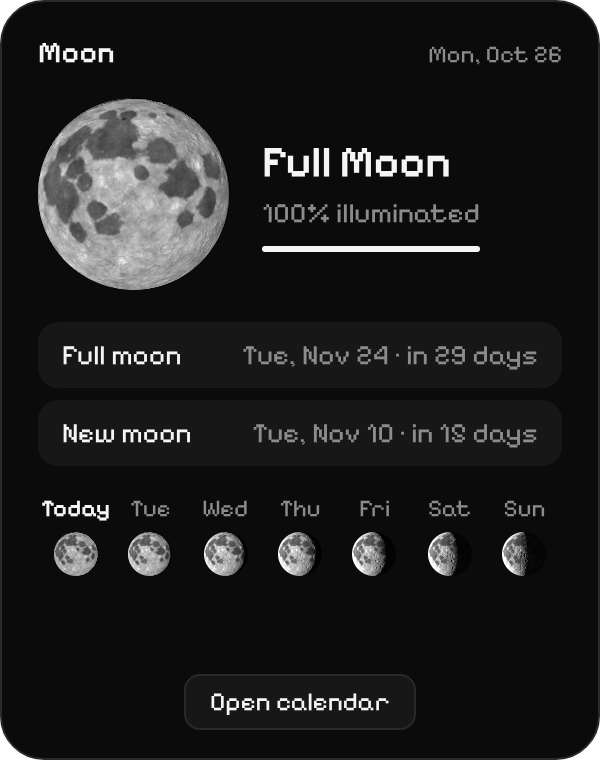
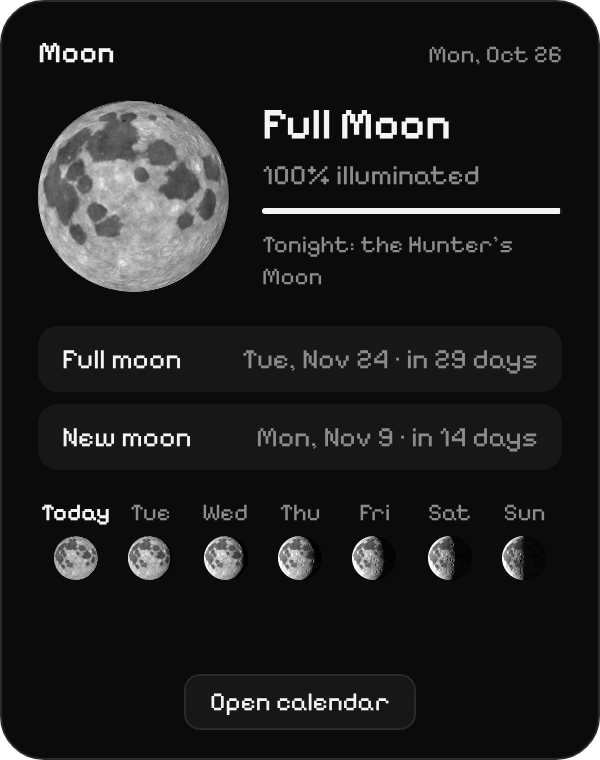
v1.2.0: traditional moon names (Harvest, Hunter's, Blue Moon, Supermoon) and precise phase times
Claude-Session: https://claude.ai/code/session_01NMGxaikXEgU81ymDHPEkG5

diff --git a/moon.js b/moon.js
@@ -1,35 +1,174 @@
 // Shared moon math + drawing, used by both the website (index.html) and the widget (widget.html).
+//
+// Phase times use the algorithms from Jean Meeus, "Astronomical Algorithms" (ch. 47 and 49),
+// so new, quarter and full moon times are accurate to within a few minutes for any year,
+// past or future. Nothing is hard-coded, so the app keeps working year after year.
 
-const SYNODIC = 29.530588853;                       // average days between new moons
-const REF_NEW_MOON = Date.UTC(2000, 0, 6, 18, 14);  // a known new moon
+const SYNODIC = 29.530588861;   // average days between new moons
 const DAY_MS = 86400000;
+const rad = d => d * Math.PI / 180;
+const jdOf = date => date.getTime() / DAY_MS + 2440587.5;   // Date -> Julian Day
+const dateOf = jd => new Date((jd - 2440587.5) * DAY_MS);    // Julian Day -> Date
+
+// Exact time of a principal phase. k = lunation number (0 = Jan 2000), q = 0 new, 0.25 first quarter, 0.5 full, 0.75 last quarter
+function truePhaseJD(k, q) {
+  const kk = k + q, T = kk / 1236.85, s = Math.sin, c = Math.cos;
+  let jde = 2451550.09766 + 29.530588861 * kk + 0.00015437 * T * T - 0.00000015 * T ** 3 + 0.00000000073 * T ** 4;
+  const E = 1 - 0.002516 * T - 0.0000074 * T * T;
+  const M = rad(2.5534 + 29.1053567 * kk - 0.0000014 * T * T);       // Sun's mean anomaly
+  const Mp = rad(201.5643 + 385.81693528 * kk + 0.0107582 * T * T);  // Moon's mean anomaly
+  const F = rad(160.7108 + 390.67050284 * kk - 0.0016118 * T * T);   // Moon's argument of latitude
+  const O = rad(124.7746 - 1.56375588 * kk + 0.0020672 * T * T);     // longitude of the ascending node
+  let corr;
+  if (q === 0 || q === 0.5) {
+    const a = q === 0 ? [-0.40720, 0.17241, 0.01608, 0.01039, 0.00739, -0.00514, 0.00208]
+                      : [-0.40614, 0.17302, 0.01614, 0.01043, 0.00734, -0.00515, 0.00209];
+    corr = a[0] * s(Mp) + a[1] * E * s(M) + a[2] * s(2 * Mp) + a[3] * s(2 * F) + a[4] * E * s(Mp - M)
+      + a[5] * E * s(Mp + M) + a[6] * E * E * s(2 * M) - 0.00111 * s(Mp - 2 * F) - 0.00057 * s(Mp + 2 * F)
+      + 0.00056 * E * s(2 * Mp + M) - 0.00042 * s(3 * Mp) + 0.00042 * E * s(M + 2 * F) + 0.00038 * E * s(M - 2 * F)
+      - 0.00024 * E * s(2 * Mp - M) - 0.00017 * s(O) - 0.00007 * s(Mp + 2 * M) + 0.00004 * s(2 * Mp - 2 * F)
+      + 0.00004 * s(3 * M) + 0.00003 * s(Mp + M - 2 * F) + 0.00003 * s(2 * Mp + 2 * F) - 0.00003 * s(Mp + M + 2 * F)
+      + 0.00003 * s(Mp - M + 2 * F) - 0.00002 * s(Mp - M - 2 * F) - 0.00002 * s(3 * Mp + M) + 0.00002 * s(4 * Mp);
+  } else {
+    corr = -0.62801 * s(Mp) + 0.17172 * E * s(M) - 0.01183 * E * s(Mp + M) + 0.00862 * s(2 * Mp) + 0.00804 * s(2 * F)
+      + 0.00454 * E * s(Mp - M) + 0.00204 * E * E * s(2 * M) - 0.0018 * s(Mp - 2 * F) - 0.0007 * s(Mp + 2 * F)
+      - 0.0004 * s(3 * Mp) - 0.00034 * E * s(2 * Mp - M) + 0.00032 * E * s(M + 2 * F) + 0.00032 * E * s(M - 2 * F)
+      - 0.00028 * E * E * s(Mp + 2 * M) + 0.00027 * E * s(2 * Mp + M) - 0.00017 * s(O) - 0.00005 * s(Mp - M - 2 * F)
+      + 0.00004 * s(2 * Mp + 2 * F) - 0.00004 * s(Mp + M + 2 * F) + 0.00004 * s(Mp - 2 * M) + 0.00003 * s(Mp + M - 2 * F)
+      + 0.00003 * s(3 * M) + 0.00002 * s(2 * Mp - 2 * F) + 0.00002 * s(Mp - M + 2 * F) - 0.00002 * s(3 * Mp + M);
+    const W = 0.00306 - 0.00038 * E * c(M) + 0.00026 * c(Mp) - 0.00002 * c(Mp - M) + 0.00002 * c(Mp + M) + 0.00002 * c(2 * F);
+    corr += q === 0.25 ? W : -W;
+  }
+  return jde + corr - 69.2 / 86400;   // TT -> UT (ΔT ≈ 69 s)
+}
+
+// The principal phases around a moment, in time order: [{ jd, q }]
+const phaseCache = new Map();
+function phasesAround(date) {
+  const k0 = Math.floor((jdOf(date) - 2451550.09766) / SYNODIC);
+  const out = [];
+  for (let k = k0 - 1; k <= k0 + 2; k++) {
+    if (!phaseCache.has(k)) phaseCache.set(k, [0, 0.25, 0.5, 0.75].map(q => ({ jd: truePhaseJD(k, q), q })));
+    out.push(...phaseCache.get(k));
+  }
+  return out.sort((a, b) => a.jd - b.jd);
+}
 
 const PHASES = [
-  { max: 1.84566,  name: 'New Moon' },
-  { max: 5.53699,  name: 'Waxing Crescent' },
-  { max: 9.22831,  name: 'First Quarter' },
-  { max: 12.91963, name: 'Waxing Gibbous' },
-  { max: 16.61096, name: 'Full Moon' },
-  { max: 20.30228, name: 'Waning Gibbous' },
-  { max: 23.99361, name: 'Last Quarter' },
-  { max: 27.68493, name: 'Waning Crescent' },
-  { max: 99,       name: 'New Moon' },
+  { max: 0.0625, name: 'New Moon' },
+  { max: 0.1875, name: 'Waxing Crescent' },
+  { max: 0.3125, name: 'First Quarter' },
+  { max: 0.4375, name: 'Waxing Gibbous' },
+  { max: 0.5625, name: 'Full Moon' },
+  { max: 0.6875, name: 'Waning Gibbous' },
+  { max: 0.8125, name: 'Last Quarter' },
+  { max: 0.9375, name: 'Waning Crescent' },
+  { max: 1.01,   name: 'New Moon' },
 ];
 
-function moonAge(date) {
-  const days = (date.getTime() - REF_NEW_MOON) / DAY_MS;
-  return ((days % SYNODIC) + SYNODIC) % SYNODIC;
+// Where in its cycle the moon is: 0 = new, 0.25 = first quarter, 0.5 = full, 0.75 = last quarter
+function phaseFraction(date) {
+  const jd = jdOf(date), ev = phasesAround(date);
+  for (let i = 0; i < ev.length - 1; i++) {
+    if (jd >= ev[i].jd && jd < ev[i + 1].jd) {
+      return (ev[i].q + 0.25 * (jd - ev[i].jd) / (ev[i + 1].jd - ev[i].jd)) % 1;
+    }
+  }
+  return 0;
 }
-function phaseFraction(date) { return moonAge(date) / SYNODIC; }
+function moonAge(date) {   // days since the last new moon
+  const jd = jdOf(date);
+  const prev = phasesAround(date).filter(e => e.q === 0 && e.jd <= jd).pop();
+  return prev ? jd - prev.jd : 0;
+}
 function illumination(date) { return (1 - Math.cos(2 * Math.PI * phaseFraction(date))) / 2; }
-function phaseInfo(date) { const a = moonAge(date); return PHASES.find(p => a < p.max); }
+function phaseInfo(date) { const f = phaseFraction(date); return PHASES.find(p => f < p.max); }
 
-// Next time the moon reaches a given fraction of its cycle (0.25 = first quarter, 0.5 = full, 1 = new)
+// Next time the moon reaches a phase after `from` (target 0.25 first quarter, 0.5 full, 0.75 last quarter, 1 new)
 function nextPhaseDate(from, target) {
-  const f = phaseFraction(from);
-  let diff = target - f;
-  if (diff <= 0) diff += 1;
-  return new Date(from.getTime() + diff * SYNODIC * DAY_MS);
+  const q = target % 1, jd = jdOf(from);
+  for (let shift = 0; shift < 3; shift++) {
+    const probe = new Date(from.getTime() + shift * 20 * DAY_MS);
+    const hit = phasesAround(probe).find(e => e.q === q && e.jd > jd);
+    if (hit) return dateOf(hit.jd);
+  }
+  return null;
+}
+
+// ---------- Full moon names ----------
+// Traditional names (as used by the Old Farmer's Almanac), worked out for any year:
+//  - each month has its own name
+//  - the Harvest Moon is the full moon closest to the September equinox; the Hunter's Moon is the one after it
+//  - a second full moon in the same calendar month is a Blue Moon
+//  - a full moon closer than about 362,500 km is a Supermoon; farther than 405,000 km is a Micromoon
+const MONTH_MOONS = ['Wolf Moon', 'Snow Moon', 'Worm Moon', 'Pink Moon', 'Flower Moon', 'Strawberry Moon',
+  'Buck Moon', 'Sturgeon Moon', 'Corn Moon', "Hunter's Moon", 'Beaver Moon', 'Cold Moon'];
+const MOON_MEANINGS = {
+  'Wolf Moon': 'Wolves howling in midwinter', 'Snow Moon': 'The snowiest time of year',
+  'Worm Moon': 'Earthworms return as the ground thaws', 'Pink Moon': 'Pink wildflowers bloom in spring',
+  'Flower Moon': 'Flowers everywhere in May', 'Strawberry Moon': 'Strawberry picking season',
+  'Buck Moon': "Deer grow new antlers", 'Sturgeon Moon': 'Sturgeon fishing season',
+  'Corn Moon': 'Corn harvest time', 'Harvest Moon': 'Bright evenings to bring in the harvest',
+  "Hunter's Moon": 'Moonlit autumn hunting', 'Beaver Moon': 'Beavers prepare for winter',
+  'Cold Moon': 'The long, cold nights of December', 'Blue Moon': 'A second full moon in one month',
+};
+
+function fullMoonsOfYear(year) {
+  const k0 = Math.floor((year - 2000) * 12.3685) - 1;
+  const list = [];
+  for (let k = k0; k <= k0 + 15; k++) {
+    const d = dateOf(truePhaseJD(k, 0.5));
+    if (d.getFullYear() === year) list.push(d);
+  }
+  return list;
+}
+
+// Earth–Moon distance in km (Meeus ch. 47, main terms; good to a few hundred km)
+function moonDistanceKm(date) {
+  const T = (jdOf(date) - 2451545) / 36525, c = Math.cos;
+  const D = rad(297.8501921 + 445267.1114034 * T), M = rad(357.5291092 + 35999.0502909 * T);
+  const Mp = rad(134.9633964 + 477198.8675055 * T), F = rad(93.272095 + 483202.0175233 * T);
+  return 385000.56 + (-20905355 * c(Mp) - 3699111 * c(2 * D - Mp) - 2955968 * c(2 * D) - 569925 * c(2 * Mp)
+    + 48888 * c(M) - 3149 * c(2 * F) + 246158 * c(2 * D - 2 * Mp) - 152138 * c(2 * D - M - Mp)
+    - 170733 * c(2 * D + Mp) - 204586 * c(2 * D - M) - 129620 * c(M - Mp) + 108743 * c(D)
+    + 104755 * c(M + Mp) + 10321 * c(2 * D - 2 * F) + 79661 * c(Mp - 2 * F) - 34782 * c(4 * D - Mp)
+    - 23210 * c(3 * Mp) - 21636 * c(4 * D - 2 * Mp) + 24208 * c(2 * D + M - Mp) + 30824 * c(2 * D + M)) / 1000;
+}
+
+// Name and extras for one full moon (pass the exact full moon time)
+function fullMoonName(fullDate) {
+  const y = fullDate.getFullYear(), list = fullMoonsOfYear(y);
+  const idx = list.findIndex(d => Math.abs(d - fullDate) < DAY_MS);
+  const equinox = Date.UTC(y, 8, 22, 18);
+  let harvest = 0;
+  list.forEach((d, i) => { if (Math.abs(d - equinox) < Math.abs(list[harvest] - equinox)) harvest = i; });
+
+  let name = MONTH_MOONS[fullDate.getMonth()];
+  if (idx === harvest) name = 'Harvest Moon';
+  else if (idx === harvest + 1) name = "Hunter's Moon";
+  else if (idx > 0 && list[idx - 1].getMonth() === fullDate.getMonth()) name = 'Blue Moon';
+
+  const km = moonDistanceKm(fullDate);
+  const extra = km < 362500 ? 'Supermoon' : km > 405000 ? 'Micromoon' : '';
+  return { name, extra, km: Math.round(km), meaning: MOON_MEANINGS[name] || '' };
+}
+
+// The named full moon that belongs to the moon cycle a date is in
+function currentMoonCycle(date) {
+  const jd = jdOf(date), ev = phasesAround(date);
+  const prevNew = ev.filter(e => e.q === 0 && e.jd <= jd).pop();
+  const full = ev.find(e => e.q === 0.5 && e.jd > (prevNew ? prevNew.jd : jd - SYNODIC));
+  const fullDate = dateOf(full.jd);
+  return { fullDate, ...fullMoonName(fullDate) };
+}
+
+// Short line for the UI, e.g. "Tonight: Hunter's Moon" or "Growing toward the Beaver Moon"
+function moonNameLine(date) {
+  const cyc = currentMoonCycle(date);
+  const label = cyc.name + (cyc.extra ? ` · ${cyc.extra}` : '');
+  if (sameDay(date, cyc.fullDate)) return { text: `Tonight: the ${label}`, cyc };
+  if (date < cyc.fullDate) return { text: `Growing toward the ${label}`, cyc };
+  return { text: `Fading after the ${label}`, cyc };
 }
 
 function sameDay(a, b) {
@@ -124,5 +263,5 @@ function drawMoon(canvas, frac) {
 
 // Let Node (tests) import it too
 if (typeof module !== 'undefined') {
-  module.exports = { SYNODIC, moonAge, phaseFraction, illumination, phaseInfo, nextPhaseDate };
+  module.exports = { SYNODIC, moonAge, phaseFraction, illumination, phaseInfo, nextPhaseDate, fullMoonsOfYear, fullMoonName, moonDistanceKm, moonNameLine, truePhaseJD, dateOf };
 }

diff --git a/index.html b/index.html
@@ -41,7 +41,8 @@
   .hero { display: grid; grid-template-columns: auto 1fr; gap: 36px; align-items: center; margin-bottom: 20px; }
   .hero canvas { width: 190px; height: 190px; }
   .hero .label { color: var(--muted); font-size: 0.9rem; }
-  .hero h2 { font-size: clamp(1.6rem, 4vw, 2.1rem); font-weight: 600; letter-spacing: -0.01em; margin: 4px 0 20px; }
+  .hero h2 { font-size: clamp(1.6rem, 4vw, 2.1rem); font-weight: 600; letter-spacing: -0.01em; margin: 4px 0 4px; }
+  .mname { color: var(--muted); font-size: 0.9rem; margin-bottom: 18px; }
   .stats { display: grid; grid-template-columns: repeat(2, 1fr); gap: 10px; }
   .stat { background: var(--cell); border-radius: 12px; padding: 13px 15px; }
   .stat .k { color: var(--muted); font-size: 0.8rem; }
@@ -111,6 +112,7 @@
     <div>
       <div class="label" id="heroDate">Tonight</div>
       <h2 id="heroPhase">—</h2>
+      <div class="mname" id="heroName"></div>
       <div class="stats">
         <div class="stat">
           <div class="k">Illumination</div>
@@ -143,7 +145,7 @@
 
   <footer>
     Made by <a href="https://github.com/mllaky" target="_blank" rel="noopener">Malak</a> ·
-    Phases are approximate (within about a day)
+    Phase times accurate to within minutes
   </footer>
 </div>
 
@@ -164,6 +166,9 @@ function showDetails(date) {
   document.getElementById('heroFull').textContent = fmtDate(nextPhaseDate(date, 0.5));
   document.getElementById('heroNew').textContent = fmtDate(nextPhaseDate(date, 1));
   drawMoon(document.getElementById('heroMoon'), phaseFraction(date));
+  const nm = moonNameLine(date);
+  const hn = document.getElementById('heroName');
+  hn.textContent = nm.text + (nm.cyc.meaning ? ` — ${nm.cyc.meaning.toLowerCase()}` : '');
 }
 
 // Which main phase (if any) happens during this calendar day
@@ -172,7 +177,10 @@ function mainPhaseOnDay(y, m, d) {
   const marks = [[1, 'New'], [0.25, 'First Q'], [0.5, 'Full'], [0.75, 'Last Q']];
   for (const [t, label] of marks) {
     const next = nextPhaseDate(new Date(start.getTime() - 1), t);
-    if (next >= start && next < end) return label;
+    if (next >= start && next < end) {
+      if (t === 0.5) { const n = fullMoonName(next); return n.name.replace(' Moon', '') + (n.extra === 'Supermoon' ? ' ★' : ''); }
+      return label;
+    }
   }
   return '';
 }
@@ -226,7 +234,8 @@ function renderUpcoming() {
     drawMoon(cv, i.t % 1);
     box.appendChild(cv);
     box.insertAdjacentHTML('beforeend',
-      `<div class="t">${i.n}</div><div class="d">${fmtDate(i.date)} · ${relDays(daysUntil(i.date))}</div>`);
+      `<div class="t">${i.t === 0.5 ? fullMoonName(i.date).name : i.n}</div><div class="d">${fmtDate(i.date)} · ${relDays(daysUntil(i.date))}</div>`
+      + (i.t === 0.5 && fullMoonName(i.date).extra ? `<div class="d">${fullMoonName(i.date).extra}</div>` : ''));
     list.appendChild(box);
   });
 }

diff --git a/widget.html b/widget.html
@@ -47,6 +47,7 @@
   .illum { font-size: 14px; color: var(--muted); margin-top: 4px; }
   .bar { height: 3px; border-radius: 3px; background: #2a2a2a; margin-top: 8px; overflow: hidden; }
   .bar > div { height: 100%; background: var(--text); }
+  .mname { font-size: 12px; color: var(--muted); margin-top: 8px; line-height: 1.3; }
 
   .rows { margin-top: 16px; display: grid; gap: 6px; }
   .row { display: flex; justify-content: space-between; background: var(--cell); border-radius: 10px; padding: 8px 12px; font-size: 14px; }
@@ -76,6 +77,7 @@
       <div class="phase" id="phase">—</div>
       <div class="illum" id="illum">—</div>
       <div class="bar"><div id="bar" style="width:0%"></div></div>
+      <div class="mname" id="mname"></div>
     </div>
   </div>
 
@@ -104,6 +106,11 @@ function render() {
   document.getElementById('illum').textContent = Math.round(illum * 100) + '% illuminated';
   document.getElementById('bar').style.width = (illum * 100).toFixed(1) + '%';
   drawMoon(document.getElementById('moon'), phaseFraction(tonight));
+
+  const nm = moonNameLine(tonight);
+  const mn = document.getElementById('mname');
+  mn.textContent = nm.text;
+  mn.title = nm.cyc.meaning;
 
   const full = nextPhaseDate(now, 0.5), nw = nextPhaseDate(now, 1);
   document.getElementById('full').textContent = `${fmtShort(full)} · ${relDays(daysUntil(full))}`;

diff --git a/README.md b/README.md
@@ -25,6 +25,7 @@ Everything is calculated locally, with no internet, accounts or APIs needed.
 
 ### Desktop widget (Mac & Windows)
 - Tonight's **phase**, **illumination %**, and dates for the **next full and new moon**
+- The **name of the moon**: Wolf, Harvest, Hunter's, Blue Moon, Supermoon and more
 - A **7-night strip** showing how the moon will change this week
 - **Drag it anywhere** on your desktop, and it remembers where you put it
 - **Starts with your computer** (you can turn this off)
@@ -58,19 +59,17 @@ Everything is calculated locally, with no internet, accounts or APIs needed.
 
 ## 🧮 How it works
 
-The moon completes one cycle (new → full → new) every **29.53 days**, known as the *synodic month*.
+**Moon phases:** the app uses the formulas from Jean Meeus's *Astronomical Algorithms*, the standard reference used by astronomers, to calculate the exact time of every new moon, quarter and full moon. Results match the Old Farmer's Almanac to within a minute, for any year, past or future. Nothing is hard-coded, so it keeps working forever.
 
-1. Start from a known new moon: **6 January 2000, 18:14 UTC**.
-2. Count the days between then and any date.
-3. The remainder after dividing by 29.53 is the **moon's age**, i.e. how far into the current cycle it is.
-4. From the age:
-   - **Phase name**: the cycle is split into 8 named phases
-   - **Illumination**: `(1 − cos(2π × age / 29.53)) / 2`
-   - **Next full / new moon**: the time until age reaches 14.77 or 29.53 days
+**Moon names:** every full moon gets its traditional name, worked out automatically each year:
+- each month has its own name (Wolf, Snow, Worm, Pink, Flower, Strawberry, Buck, Sturgeon, Corn, Hunter's, Beaver, Cold)
+- the **Harvest Moon** is the full moon closest to the September equinox, and the **Hunter's Moon** is the one after it
+- a second full moon in the same month is a **Blue Moon**
+- the app also calculates the Moon's distance from Earth, and labels full moons as a **Supermoon** (closer than ~362,500 km) or **Micromoon** (farther than 405,000 km)
 
-**Drawing the moon:** a Python script (`tools/generate_moon_texture.py`) builds the moon's surface: the seas placed at their real latitude/longitude, around 4,000 craters with rims and central peaks, and ray systems. It saves which way every bit of ground faces plus how bright it is. In the browser, each pixel is then lit by the sun from the angle that matches the phase (a Lommel–Seeliger lighting model, the one astronomers use for the moon), so the shadow line, crater shadows and earthshine all come out naturally.
+Every day shows which named moon it belongs to, e.g. *"Growing toward the Beaver Moon"*, *"Tonight: the Hunter's Moon"*, or *"Fading after the Harvest Moon"*.
 
-> **Note:** this uses the *average* lunar cycle, so dates can be off by up to about a day compared with exact astronomical tables.
+**Drawing the moon:** a Python script (`tools/generate_moon_texture.py`) builds the moon's surface: the seas placed at their real latitude/longitude, around 4,000 craters with rims and central peaks, and ray systems. In the browser, each pixel is lit by the sun from the angle that matches the phase (a Lommel–Seeliger lighting model), so the shadow line, crater shadows and earthshine all come out naturally.
 
 ## 🛠 Built with
 
